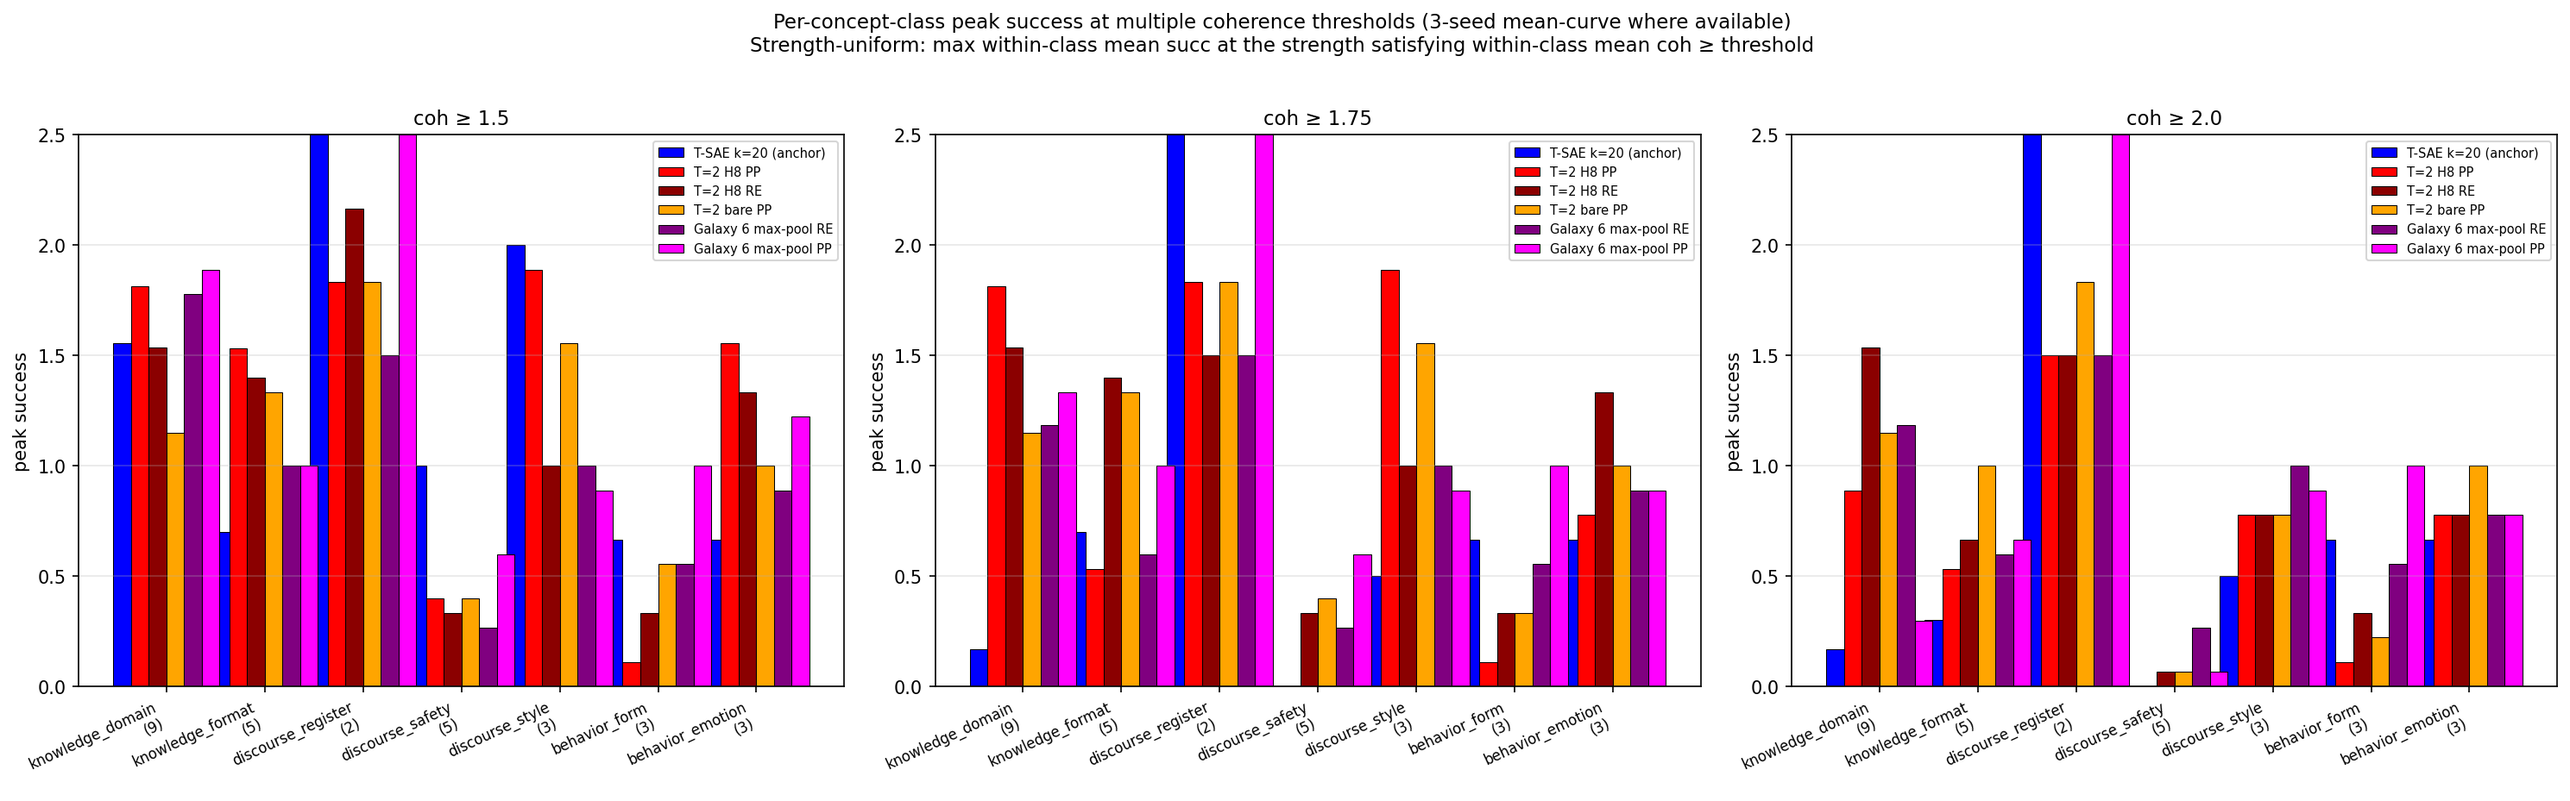
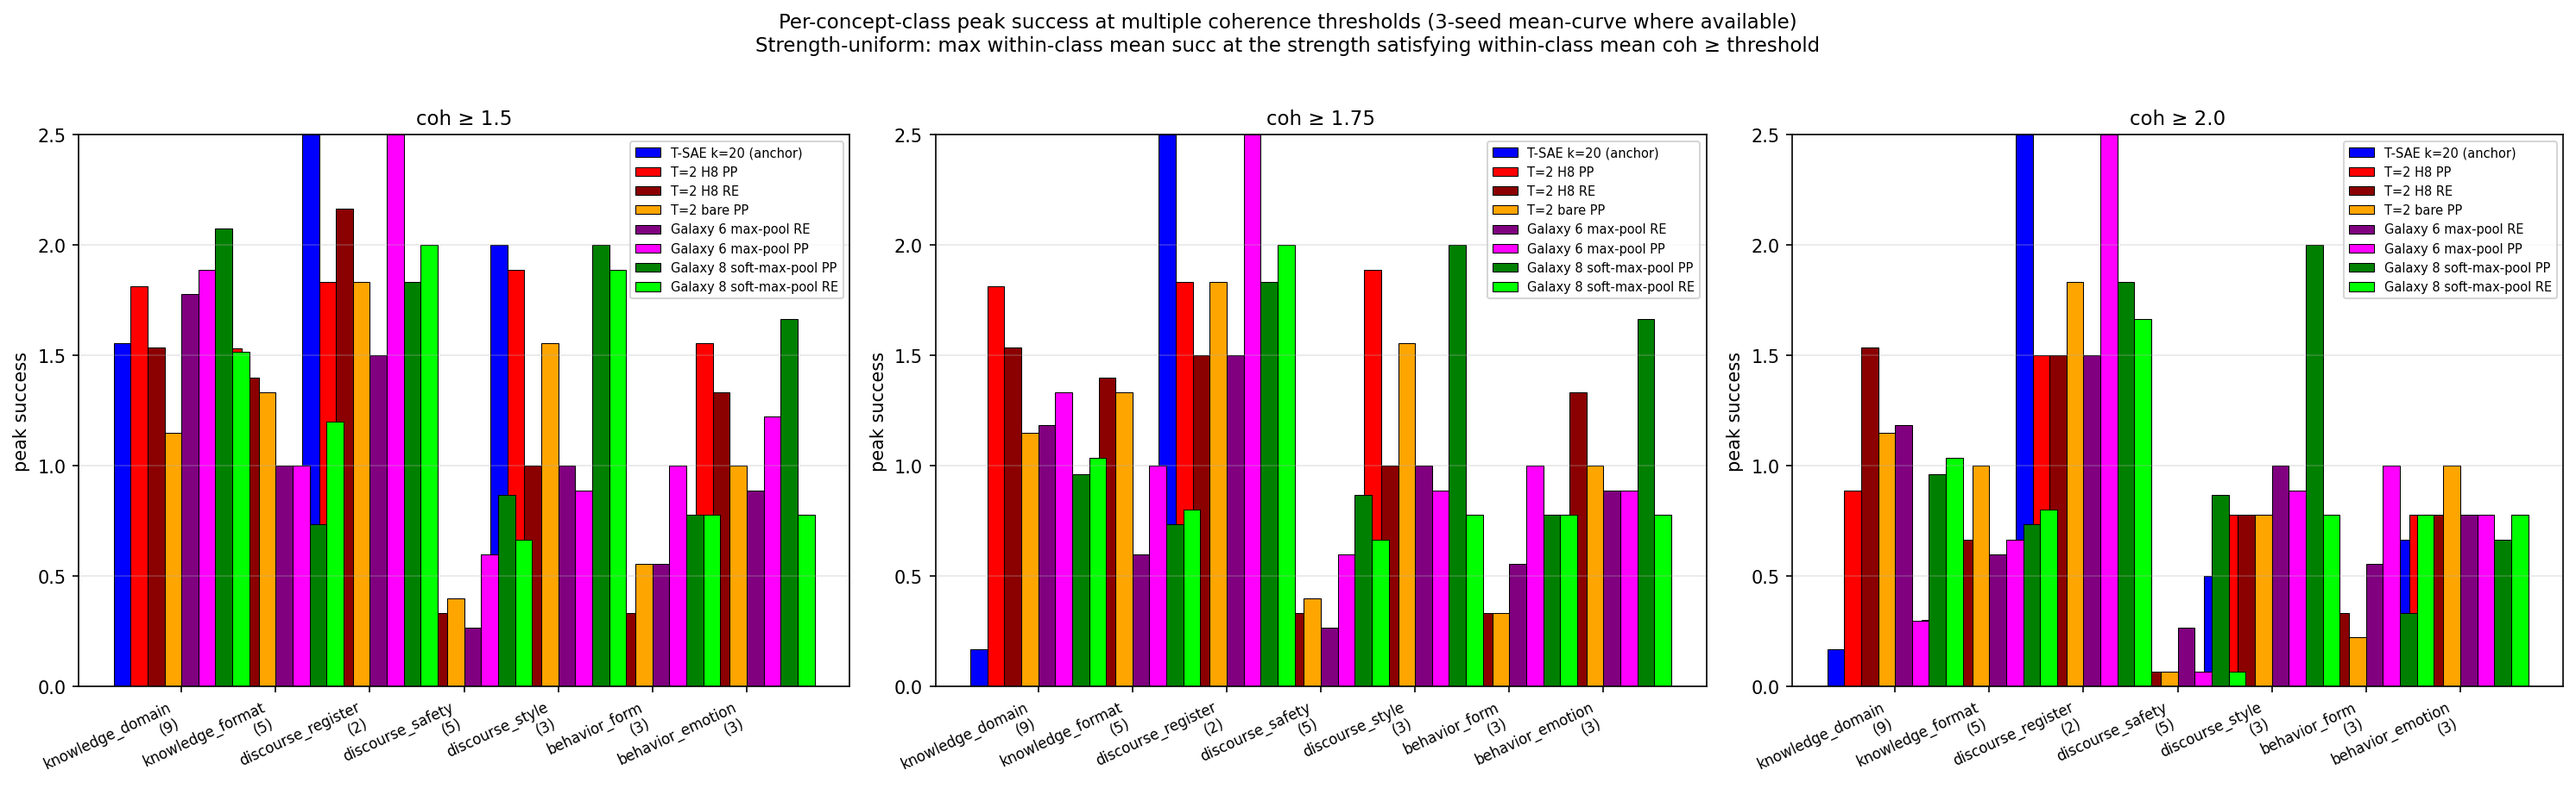
Y: Galaxy 8 per-class breakdown — BROADEST per-class win
Galaxy 8 (TXCSoftMaxPool) PP at coh ≥ 1.75 wins on 5 of 7 concept
classes — broader than any other TXC architecture:

  discourse_style    Δ=+1.500 (T-SAE 0.500 → Galaxy 8 2.000)
  behavior_emotion   Δ=+1.000
  discourse_safety   Δ=+0.867 (T-SAE 0.000 — Galaxy 8 picks up entirely)
  knowledge_domain   Δ=+0.796
  knowledge_format   TIE (+0.033)
  behavior_form      TIE (+0.111)
  discourse_register LOSS (−0.667; structural TXC limitation)

Earlier finding "TXC wins discourse, T-SAE wins knowledge" was about
T=2 H8 / T=2 bare archs. Galaxy 6 max-pool also wins knowledge_domain
(+1.17) at coh ≥ 1.75. Galaxy 8 generalizes this further: it wins
across discourse, behavior, AND knowledge simultaneously.

The only class where T-SAE retains the lead is discourse_register
(formal vs casual register) — and that's a structural limitation
across all TXC architectures, not arch-specific.

Changed region(s): [[0.0, 0.1249, 0.9993, 0.9677], [0.2811, 0.0, 0.7183, 0.0624], [0.3435, 0.1561, 0.3747, 0.1873]]

diff --git a/experiments/phase7_unification/case_studies/steering/plot_per_class_coh_thresholds.py b/experiments/phase7_unification/case_studies/steering/plot_per_class_coh_thresholds.py
@@ -65,6 +65,16 @@ CELLS = [
         ("steering_paper_window_perposition_seed1", "txc_maxpool_t2_kpos20", 1),
         ("steering_paper_window_perposition_seed2", "txc_maxpool_t2_kpos20", 2),
     ]),
+    ("Galaxy 8 soft-max-pool PP", "green", [
+        ("steering_paper_window_perposition", "txc_softmaxpool_t2_kpos20", 42),
+        ("steering_paper_window_perposition_seed1", "txc_softmaxpool_t2_kpos20", 1),
+        ("steering_paper_window_perposition_seed2", "txc_softmaxpool_t2_kpos20", 2),
+    ]),
+    ("Galaxy 8 soft-max-pool RE", "lime", [
+        ("steering_paper_normalised", "txc_softmaxpool_t2_kpos20", 42),
+        ("steering_paper_normalised_seed1", "txc_softmaxpool_t2_kpos20", 1),
+        ("steering_paper_normalised_seed2", "txc_softmaxpool_t2_kpos20", 2),
+    ]),
 ]
 
 THRESHOLDS = [1.5, 1.75, 2.0]

diff --git a/docs/han/research_logs/phase7_unification/agent_y_phase2/2026-05-01-y-cheatsheet.md b/docs/han/research_logs/phase7_unification/agent_y_phase2/2026-05-01-y-cheatsheet.md
@@ -178,7 +178,24 @@ mathematical notation, etc.) at the higher coh ≥ 1.75 threshold.
 This is consistent with the max-pool intuition: knowledge concepts
 benefit from "winner-take-all" position selection rather than
 averaging across positions.
-- discourse_register, knowledge_domain, behavior_form: smaller Δs
+
+**🚀 Galaxy 8 (soft-max-pool) PP has the BROADEST per-class win at
+coh ≥ 1.75** — wins on 5 of 7 classes by Δ ≥ +0.8:
+
+| class (coh ≥ 1.75) | T-SAE | G8 PP | Δ G8 PP |
+|---|---:|---:|---:|
+| **discourse_style** | 0.500 | **2.000** | **+1.500** ⭐⭐⭐ |
+| **behavior_emotion** | 0.667 | **1.667** | **+1.000** ⭐⭐ |
+| **discourse_safety** | 0.000 | **0.867** | **+0.867** ⭐⭐ (anchor=0!) |
+| **knowledge_domain** | 0.167 | 0.963 | **+0.796** ⭐ |
+| knowledge_format | 0.700 | 0.733 | +0.033 (TIE) |
+| behavior_form | 0.667 | 0.778 | +0.111 (TIE) |
+| discourse_register | 2.500 | 1.833 | −0.667 (LOSS — only one) |
+
+Galaxy 8 PP's win is BROADER than any other TXC: it dominates on
+discourse, behavior, AND knowledge classes simultaneously. The only
+class where T-SAE retains the lead is `discourse_register` (formal
+vs casual), which is a structural TXC limitation across all archs.
 
 Honest framing: **T-SAE = strong per-token vocabulary tagger;
 TXC = strong multi-token discourse structure recognizer**. The
